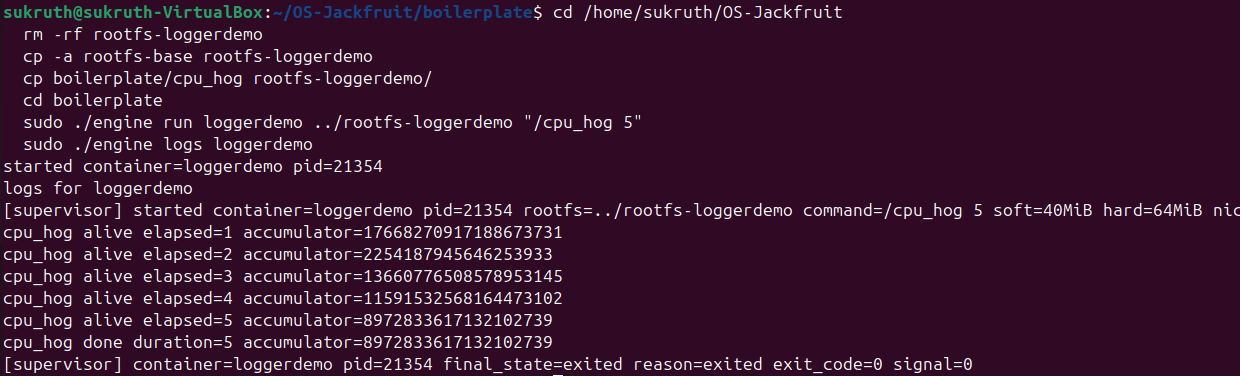
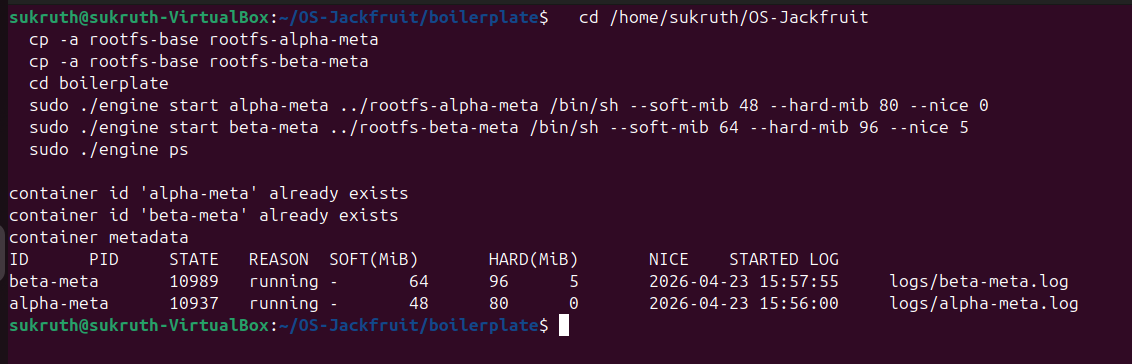
Update README screenshot mappings and refresh screenshots

diff --git a/README.md b/README.md
@@ -124,7 +124,7 @@ Behavior:
 
 ![Screenshot 1](screenshots/new/screenshot-1.png)
 
-Caption: One supervisor process managing two live containers.
+Caption: The `ps` command showing two live containers under supervisor tracking.
 
 ### Screenshot 2: Metadata Tracking
 
@@ -270,7 +270,7 @@ Linux CFS tries to balance fairness with responsiveness. In the CPU-vs-CPU exper
 
 ## Source Files
 
-Use these files for submission screenshots:
+Use these files for submission:
 
 1. [`README.md`](/home/sukruth/OS-Jackfruit/README.md)
 2. [`boilerplate/engine.c`](/home/sukruth/OS-Jackfruit/boilerplate/engine.c)
